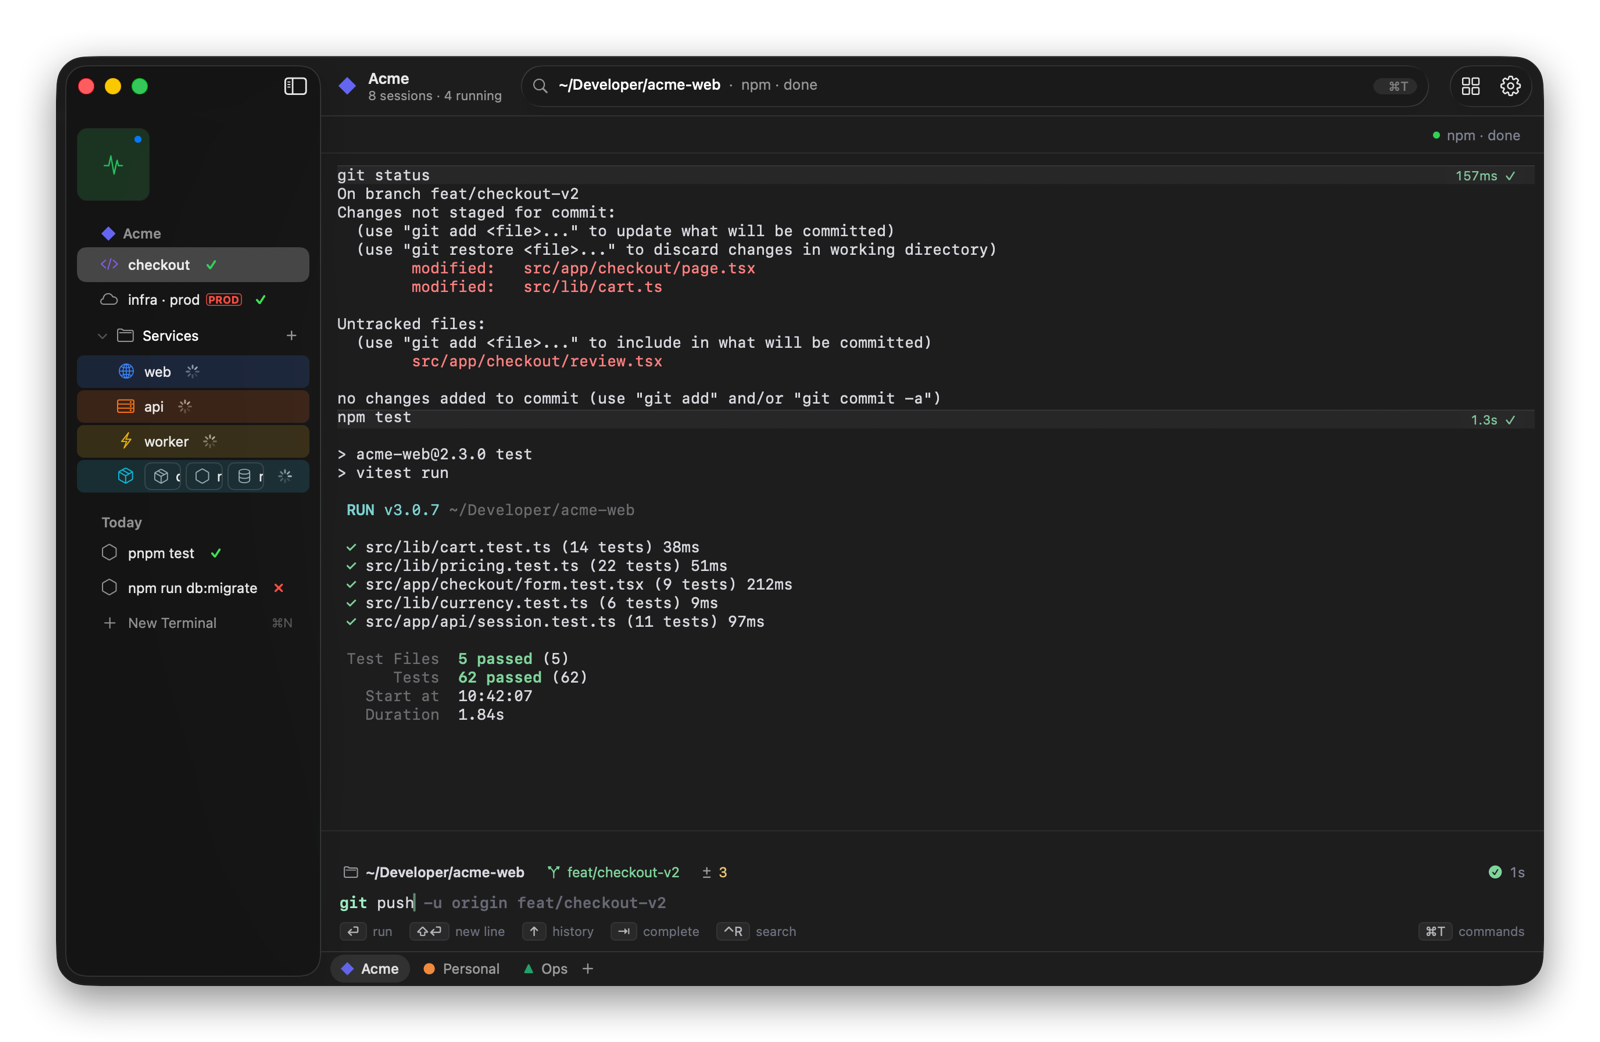
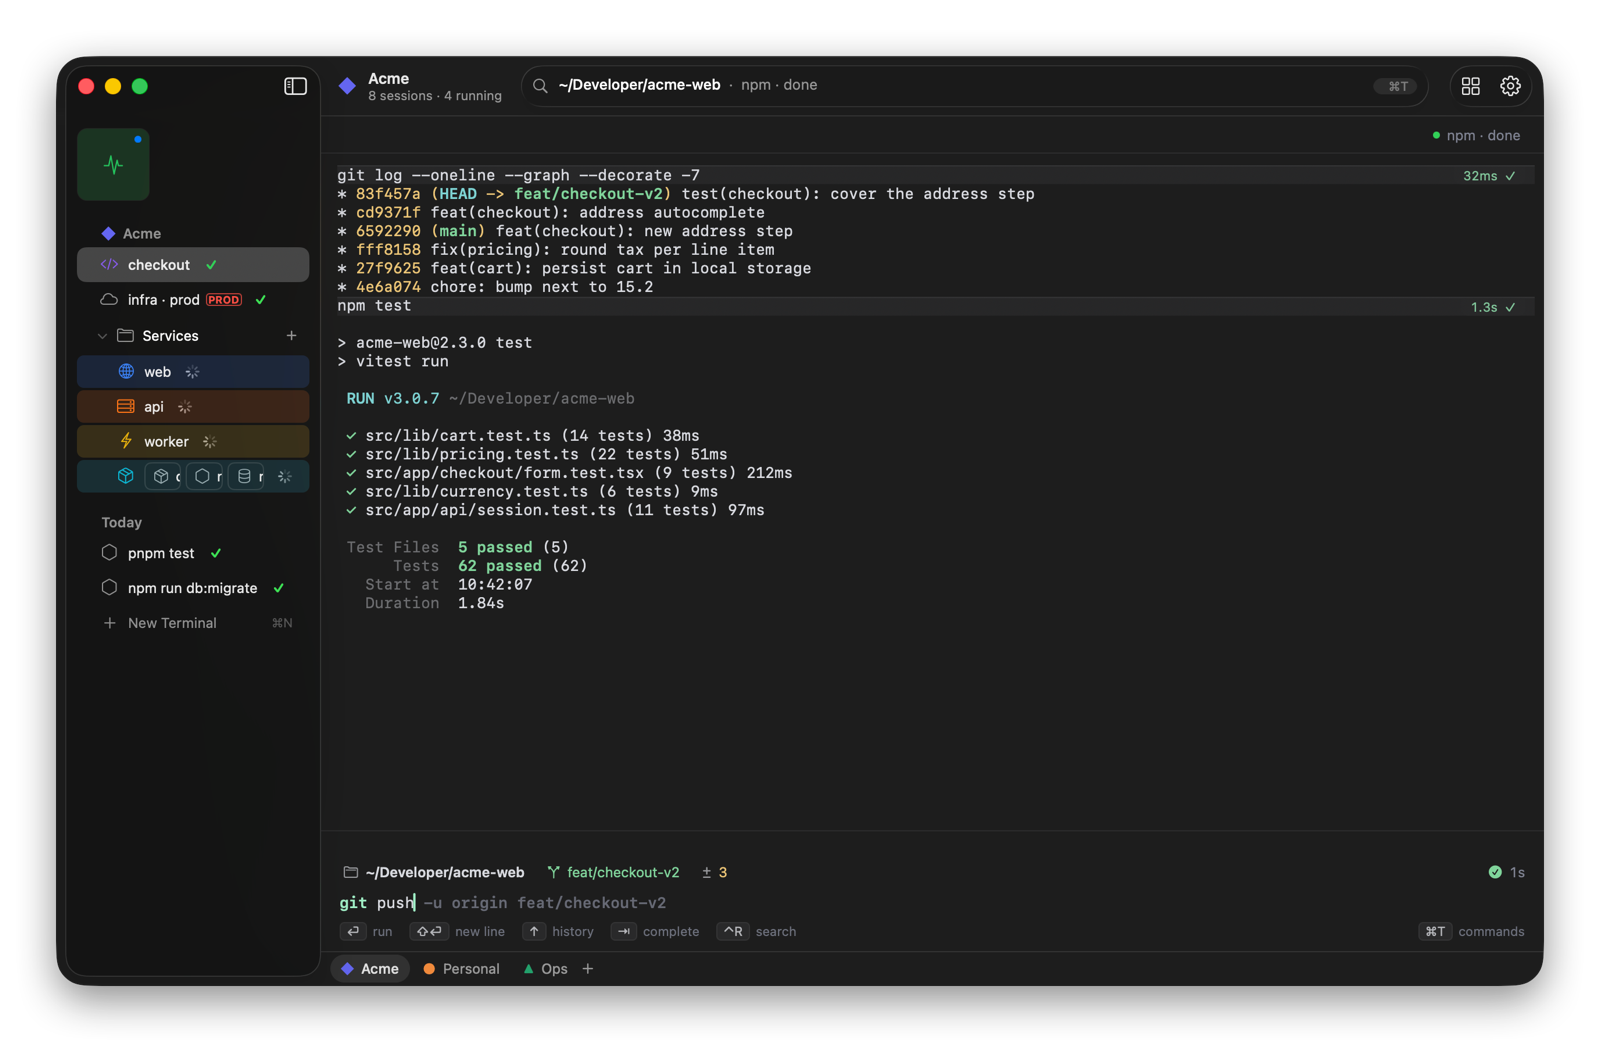
docs: update README and FEATURES documentation with improved image descriptions; modify layout constraints for better UI handling

Changed region(s): [[0.1875, 0.1536, 0.625, 0.7063]]

diff --git a/Sources/Termorc/UI/Content/PaneView.swift b/Sources/Termorc/UI/Content/PaneView.swift
@@ -373,14 +373,16 @@ final class Chip: NSButton {
         icon.symbolConfiguration = .init(pointSize: 11, weight: .medium)
         label.font = .systemFont(ofSize: 12)
         label.lineBreakMode = .byTruncatingTail
-        label.setContentCompressionResistancePriority(.defaultLow, for: .horizontal)
+        // Just above the header stacks' hugging (250): tied, Auto Layout could settle with the
+        // text squashed to nothing. Still below required, so a narrow pane truncates it.
+        label.setContentCompressionResistancePriority(.init(251), for: .horizontal)
         let stack = NSStackView(views: [icon, label])
         stack.spacing = 5
         stack.translatesAutoresizingMaskIntoConstraints = false
         addSubview(stack)
         leading = stack.leadingAnchor.constraint(equalTo: leadingAnchor, constant: 8)
         NSLayoutConstraint.activate([leading, stack.trailingAnchor.constraint(equalTo: trailingAnchor, constant: -8), stack.centerYAnchor.constraint(equalTo: centerYAnchor), heightAnchor.constraint(equalToConstant: 22)])
-        setContentCompressionResistancePriority(.defaultLow, for: .horizontal)
+        setContentCompressionResistancePriority(.init(251), for: .horizontal)
     }
 
     required init?(coder: NSCoder) { fatalError() }

diff --git a/docs/FEATURES.md b/docs/FEATURES.md
@@ -5,7 +5,7 @@
 <picture>
   <source media="(prefers-color-scheme: dark)" srcset="screenshots/main-dark.png">
   <source media="(prefers-color-scheme: light)" srcset="screenshots/main-light.png">
-  <img alt="Termorc: the sidebar with Spaces, folders and live session status beside a terminal showing git status and a passing test run" src="screenshots/main-dark.png">
+  <img alt="Termorc: the sidebar with Spaces, folders and live session status beside a terminal showing the branch history and a passing test run" src="screenshots/main-dark.png">
 </picture>
 
 Built in Swift with AppKit and SwiftUI. Light and dark follow the system, and every screen below is the real app.
@@ -56,7 +56,7 @@ You type commands in Termorc's own input bar instead of at a raw prompt:
 - **Completion:** ⇥ completes commands, paths and git branches.
 - **Status chips** above the input show the directory, the git branch and how many files changed. Click one to change directory or switch branch.
 
-Each command's output becomes a **block**: its header shows how long it took and whether it passed (`157ms ✓`, `1.3s ✓`). ⇧⌘C copies the last command's output only.
+Each command's output becomes a **block**: its header shows how long it took and whether it passed (like `1.3s ✓` on the test run above). ⇧⌘C copies the last command's output only.
 
 Prefer your shell's own prompt? **Settings › Terminal › Prompt › Shell**.
 

diff --git a/README.md b/README.md
@@ -26,7 +26,7 @@
 <picture>
   <source media="(prefers-color-scheme: dark)" srcset="docs/screenshots/main-dark.png">
   <source media="(prefers-color-scheme: light)" srcset="docs/screenshots/main-light.png">
-  <img alt="Termorc: the sidebar with Spaces, folders and live session status beside a terminal showing git status and a passing test run" src="docs/screenshots/main-dark.png">
+  <img alt="Termorc: the sidebar with Spaces, folders and live session status beside a terminal showing the branch history and a passing test run" src="docs/screenshots/main-dark.png">
 </picture>
 
 ## Why Termorc
